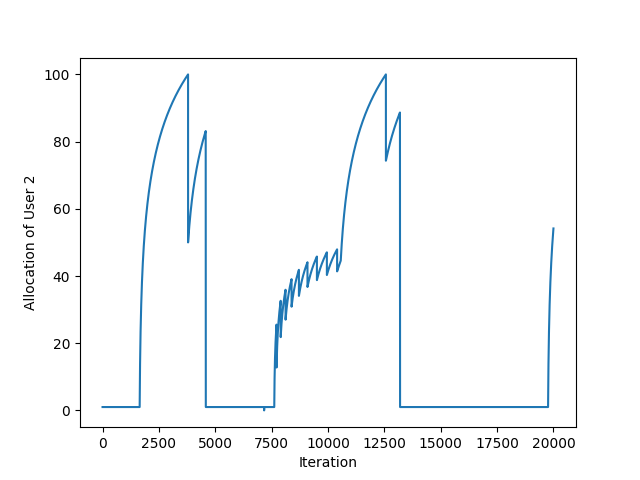
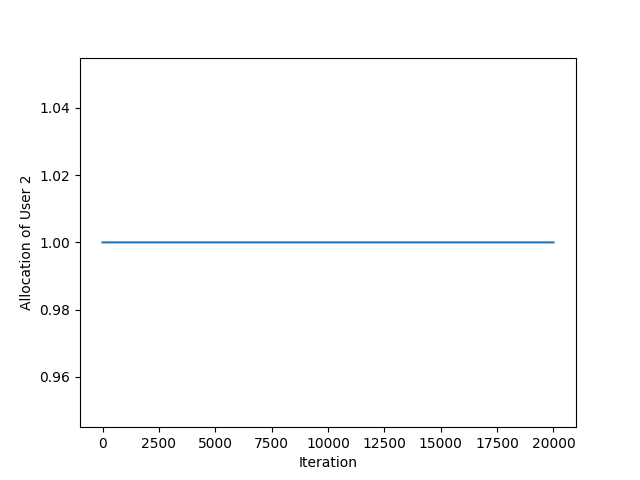
Edition

diff --git a/assignment1.py b/assignment1.py
@@ -35,6 +35,10 @@ if args.MODE:
     DYNAMIC_MODE = int(args.MODE)
 
 def alpha_function(x, alpha, is_using):
+    '''
+      This function have different functions for AI. 
+      Uncomment to select function
+    '''
     ## increasing function with faster rate
     # return alpha * np.power(x + 1, 2)
     # return alpha * np.power(x + 1,1.01)
@@ -53,6 +57,10 @@ def alpha_function(x, alpha, is_using):
     return alpha * np.reciprocal(x + 1)
 
 def beta_function(w, beta, is_using):
+    '''
+      This function have different functions for MD. 
+      Uncomment to select function
+    '''
     ## Constant 
     # return beta
 
@@ -119,7 +127,6 @@ def perron_frobenius(alphas, betas):
     if alphas.shape != betas.shape:
         raise ValueError("Alphas and Betas should have the same size")
     ev = np.divide(alphas, 1 - betas)
-    # normalized = ev / np.linalg.norm(ev)
     return ev
 
 def calculate_closestness(theoritical, experimental):
@@ -136,13 +143,14 @@ def calculate_throughtput(history, is_md):
         if allocation.sum() <= CAPACITY:
             throughput += allocation.sum()
 
-    print("Throughput : ", throughput)
-    print("Maximium Throughput : ", (MAXITERATION - 1) * CAPACITY)
-    print("# of AI:", MAXITERATION - is_md.sum(), ", # of MD:", is_md.sum())
-    print("Percentage of Time Experiences MD:", is_md.sum() * 100 / MAXITERATION, "%")
+    print("Throughput :", throughput)
+    print("Maximium Throughput :", (MAXITERATION - 1) * CAPACITY)
+    print("Number of Iteration where AI occurs :", MAXITERATION - is_md.sum())
+    print("Number of Iteration where MD occurs :", is_md.sum())
+    print("Percentage of Time Experiences MD :", is_md.sum() * 100 / MAXITERATION, "%")
 
 # Graph Plotting
-def plot_2_user_graph(data, fairness, is_multiplicative, title = None):
+def plot_2_user_graph(data, fairness, title = None):
     fairness = fairness * CAPACITY / np.sqrt(np.sum(np.square(fairness)))
     plt.clf()
     plt.title(title)
@@ -153,9 +161,7 @@ def plot_2_user_graph(data, fairness, is_multiplicative, title = None):
     plt.plot([0,fairness[0]],[0,fairness[1]], label = "Theorectical Convergence")
     plt.xlabel("Allocation of User 1")
     plt.ylabel("Allocation of User 2")
-    # idx = np.where(is_multiplicative == 1)[0][0] - 1
     plt.legend()
-    # plt.xlim(0,CAPACITY)
     plt.savefig("diagram/" + OUTPUT + "_allocation_graph.png")
     
 def plot_individual_graph(data, id):
@@ -183,9 +189,7 @@ def main():
     if FAIR != 0:    
         betas = np.random.rand( USER) 
         alphas = np.random.rand( USER) * FAIR
-    
-    betas = np.array([0.3,0.5])
-    alphas = np.array([2, 1])
+
     history, is_md = run_experiment(alphas, betas)
     fairness = perron_frobenius(alphas, betas)
 
@@ -196,7 +200,6 @@ def main():
         print("Plotting Allocation Graph")
         plot_2_user_graph(history,
                     fairness,
-                    is_md,
                     "Parameter a1 = " +
                         str(round(alphas[0],2)) +
                         " , a2 = " +
@@ -208,9 +211,6 @@ def main():
                     )
         plot_individual_graph(history, 0)
         plot_individual_graph(history, 1)
-    # else:
-        # for i in range(USER):
-        #     plot_individual_graph(history, i)
 
 if __name__ == "__main__":
     main()

diff --git a/readme.md b/readme.md
@@ -11,7 +11,7 @@ Tuning of MD
 ''' python assignment1.py --SEED 100 --MAXITER 5000 '''
 
 Scalable for Multiple User
-''' python assignment1.py --CAPACITY 1000 --USER 100 --MAXITER 1000'''
+''' python assignment1.py --CAPACITY 1000 --USER 100 --MAXITER 1000 --OUTPUT 100User'''
 
 User may enter or exit at a certain probability
 ''' python assignment1.py --MODE 1 --MAXITER 20000 --OUTPUT dynamic --SEED 12 '''
